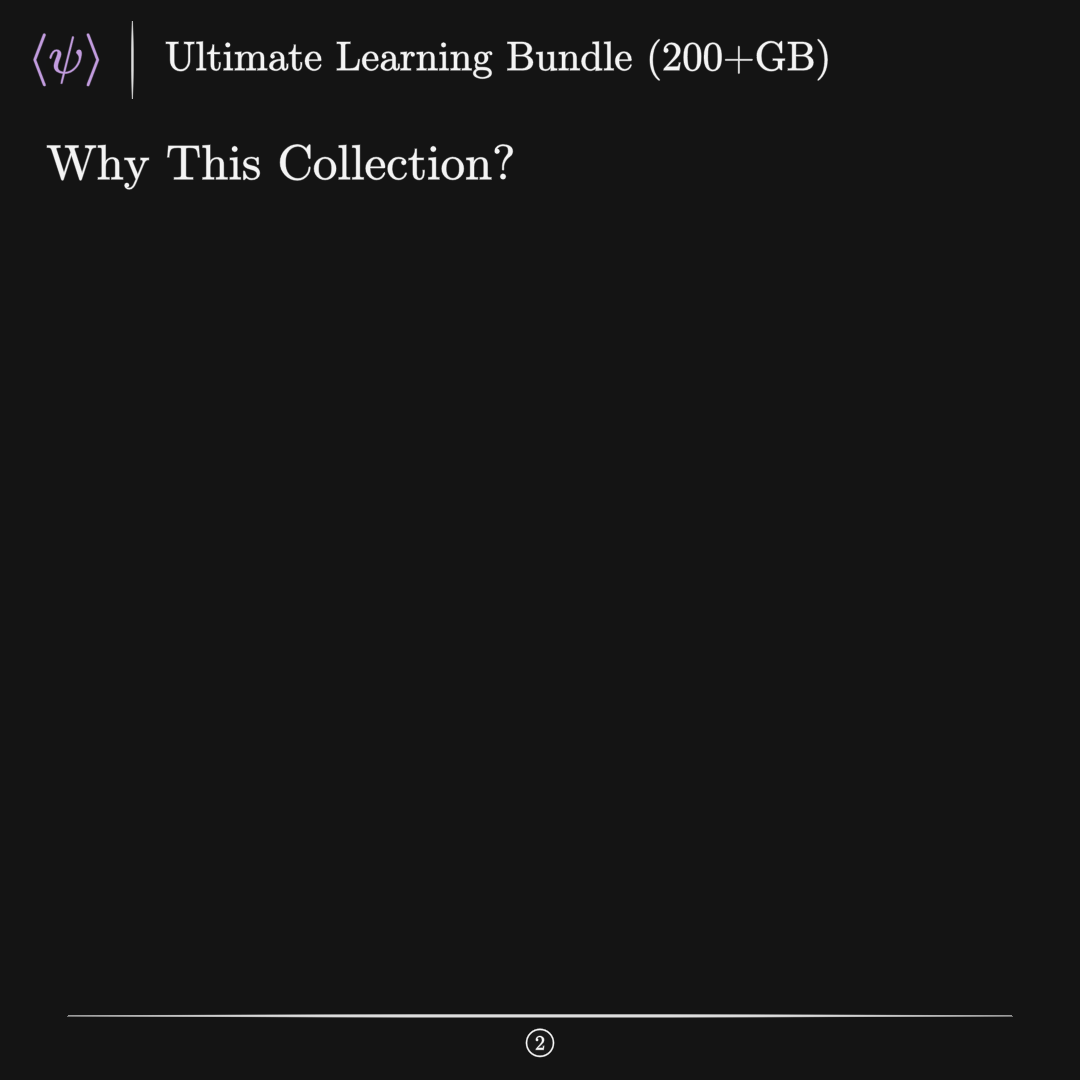
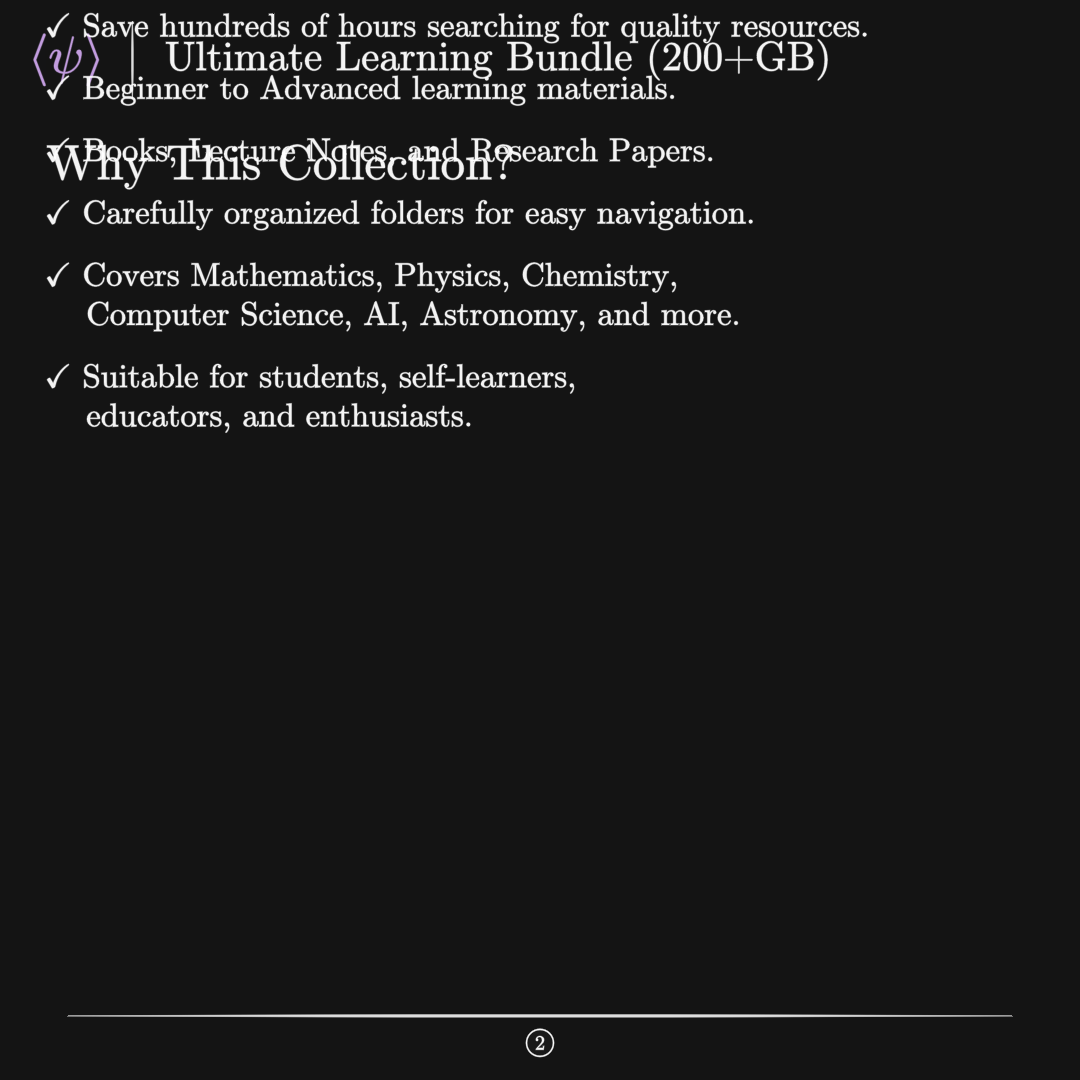
f

diff --git a/test.py b/test.py
@@ -107,3 +107,18 @@ class Paid2(PaidTemplate):
         why.next_to(self.logo, DOWN, buff=MED_LARGE_BUFF, aligned_edge=DL)
         why.shift(0.1 * DR)
         self.add(why)
+
+        why_body = TexText(
+            r"""
+            $\checkmark$ Save hundreds of hours searching for quality resources.\\[0.25cm]
+            $\checkmark$ Beginner to Advanced learning materials.\\[0.25cm]
+            $\checkmark$ Books, Lecture Notes, and Research Papers.\\[0.25cm]
+            $\checkmark$ Carefully organized folders for easy navigation.\\[0.25cm]
+            $\checkmark$ Covers Mathematics, Physics, Chemistry,\\
+            \hspace*{0.45cm}Computer Science, AI, Astronomy, and more.\\[0.25cm]
+            $\checkmark$ Suitable for students, self-learners,\\
+            \hspace*{0.45cm}educators, and enthusiasts.
+            """, alignment=r"\flushleft", font_size=24,
+        )
+        why_body.next_to(why, DOWN, aligned_edge=DL)
+        self.add(why_body)

diff --git a/latex_cache/working.tex b/latex_cache/working.tex
@@ -26,7 +26,14 @@
 
 \begin{document}
 
-\centering
-Why This Collection?
+\flushleft
+$\checkmark$ Save hundreds of hours searching for quality resources.\\[0.25cm]
+            $\checkmark$ Beginner to Advanced learning materials.\\[0.25cm]
+            $\checkmark$ Books, Lecture Notes, and Research Papers.\\[0.25cm]
+            $\checkmark$ Carefully organized folders for easy navigation.\\[0.25cm]
+            $\checkmark$ Covers Mathematics, Physics, Chemistry,\\
+            \hspace*{0.45cm}Computer Science, AI, Astronomy, and more.\\[0.25cm]
+            $\checkmark$ Suitable for students, self-learners,\\
+            \hspace*{0.45cm}educators, and enthusiasts.
 
 \end{document}
